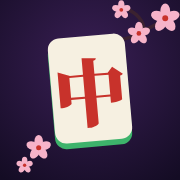
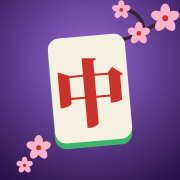
Mahj Night: amethyst ombre background, remove umbrella (v1.3)
Claude-Session: https://claude.ai/code/session_018HnCYLGY6uvHi36cN7WMrt

diff --git a/mahj-night/index.html b/mahj-night/index.html
@@ -4,7 +4,7 @@
 <meta charset="utf-8">
 <meta name="viewport" content="width=device-width,initial-scale=1,viewport-fit=cover">
 <title>Mahj Night</title>
-<meta name="theme-color" content="#1B1230">
+<meta name="theme-color" content="#8656C4">
 <meta name="apple-mobile-web-app-capable" content="yes">
 <meta name="apple-mobile-web-app-title" content="Mahj Night">
 <meta name="apple-mobile-web-app-status-bar-style" content="black-translucent">
@@ -23,11 +23,11 @@
 <style>
 :root{
   --felt:#0F3D33; --felt-2:#145040; --felt-deep:#0A2C25; --rail:#06201A;
-  --night:#1F1335; --night-2:#35204F; --night-deep:#120B20; --blossom:#F6B3C9; --lacquer:#C8322B;
+  --night:#4A2478; --night-2:#8656C4; --night-deep:#1C0B30; --blossom:#F6B3C9; --lacquer:#C8322B;
   --zh:"Ma Shan Zheng","Noto Serif CJK SC","Songti SC","STKaiti",serif;
   --ivory:#F6F0E1; --bone:#E4D9BF; --ink:#22201B;
   --crak:#E0453A; --dot:#2F7BD6; --bam:#3DB36B; --gold:#F2B630; --plum:#A66CE8; --teal:#1FB5B0;
-  --text:#F4ECF4; --muted:#C7B3D6;
+  --text:#F4ECF4; --muted:#E0CFF0;
   --display:"Lilita One","Arial Rounded MT Bold","Trebuchet MS",system-ui,sans-serif;
   --body:"Nunito",ui-rounded,system-ui,-apple-system,"Segoe UI",sans-serif;
 }
@@ -35,7 +35,7 @@
 html,body{margin:0}
 html{background:var(--night-deep)}
 body{
-  background:radial-gradient(120% 70% at 50% -10%,var(--night-2),var(--night) 45%,var(--night-deep));
+  background:linear-gradient(180deg,var(--night-2) 0%,var(--night) 38%,var(--night-deep) 100%);
   color:var(--text); font:500 16px/1.45 var(--body);
   min-height:100vh; padding-bottom:calc(84px + env(safe-area-inset-bottom));
   -webkit-tap-highlight-color:transparent;
@@ -67,7 +67,7 @@ header{padding:calc(14px + env(safe-area-inset-top)) 0 6px}
 .b-update{background:var(--gold);color:var(--ink)} .b-update button{background:var(--ink);color:var(--gold)}
 .b-activity{background:var(--dot);color:#fff} .b-activity button{background:#fff;color:var(--dot)}
 .b-activity .x{background:transparent;color:#fff;padding:6px}
-.b-local{background:#2E2338;color:var(--gold);border:1px solid rgba(242,182,48,.4)}
+.b-local{background:#3A1E5C;color:var(--gold);border:1px solid rgba(242,182,48,.4)}
 
 /* section heads */
 .head{display:flex;align-items:flex-end;justify-content:space-between;gap:10px;margin:20px 0 10px}
@@ -85,7 +85,7 @@ header{padding:calc(14px + env(safe-area-inset-top)) 0 6px}
 
 /* the table card */
 .tables{display:grid;gap:18px}
-.tcard{background:rgba(18,11,32,.72);border-radius:26px;padding:14px;box-shadow:inset 0 0 0 1.5px rgba(255,255,255,.07)}
+.tcard{background:rgba(28,11,48,.55);border-radius:26px;padding:14px;box-shadow:inset 0 0 0 1.5px rgba(255,255,255,.07)}
 .felt{position:relative;aspect-ratio:1/0.82;margin:4px 6px 10px;border-radius:30px;
   background:radial-gradient(circle at 50% 45%,#1C7A5F,#12573F 70%);
   box-shadow:inset 0 0 0 9px var(--rail),inset 0 0 0 11px #2A6B57,0 10px 24px rgba(0,0,0,.35)}
@@ -120,7 +120,7 @@ header{padding:calc(14px + env(safe-area-inset-top)) 0 6px}
 
 /* games log */
 .glist{display:grid;gap:10px}
-.game{background:rgba(18,11,32,.72);border-radius:16px;padding:12px 14px;box-shadow:inset 0 0 0 1.5px rgba(255,255,255,.07)}
+.game{background:rgba(28,11,48,.55);border-radius:16px;padding:12px 14px;box-shadow:inset 0 0 0 1.5px rgba(255,255,255,.07)}
 .game .l1{display:flex;gap:8px;align-items:baseline}
 .game .l1 b{font-size:17px;font-weight:900;flex:1}
 .game .l1 small{color:var(--muted);font-weight:700;font-size:13px;white-space:nowrap}
@@ -141,14 +141,14 @@ header{padding:calc(14px + env(safe-area-inset-top)) 0 6px}
 .ptile button{border:0;background:transparent;color:#8f8670;font-weight:900;padding:0 6px;font-size:18px;line-height:1}
 .ptile.out{opacity:.5;box-shadow:0 4px 0 #8f8670}
 .ptile.out button{font-size:13px;color:var(--ink)}
-.card{background:rgba(18,11,32,.72);border-radius:20px;padding:16px;margin-top:16px;box-shadow:inset 0 0 0 1.5px rgba(255,255,255,.07)}
+.card{background:rgba(28,11,48,.55);border-radius:20px;padding:16px;margin-top:16px;box-shadow:inset 0 0 0 1.5px rgba(255,255,255,.07)}
 .card h3{font:400 22px/1 var(--display);margin:0 0 10px}
 .card p{margin:0 0 12px;color:var(--muted);font-weight:700;font-size:14px}
 .empty{text-align:center;padding:30px 10px;color:var(--muted);font-weight:700}
 .empty .big{font:400 26px/1.1 var(--display);color:var(--text);margin-bottom:8px}
 
 /* tab bar */
-nav.tabs{position:fixed;left:0;right:0;bottom:0;z-index:20;background:rgba(18,11,32,.94);backdrop-filter:blur(10px);-webkit-backdrop-filter:blur(10px);
+nav.tabs{position:fixed;left:0;right:0;bottom:0;z-index:20;background:rgba(28,11,48,.94);backdrop-filter:blur(10px);-webkit-backdrop-filter:blur(10px);
   padding:8px 10px calc(8px + env(safe-area-inset-bottom));display:flex;justify-content:center;gap:6px;border-top:1px solid rgba(255,255,255,.08)}
 nav.tabs button{flex:1;max-width:130px;border:0;background:transparent;border-radius:14px;padding:7px 4px;font-weight:800;font-size:13px;color:var(--muted);display:grid;justify-items:center;gap:3px}
 nav.tabs button .ic{width:26px;height:20px;border-radius:5px;background:rgba(255,255,255,.1);display:grid;place-items:center}
@@ -163,7 +163,7 @@ nav.tabs button[data-tab=players][aria-selected=true] .ic i{background:var(--bam
 /* sheets */
 dialog{border:0;padding:0;background:transparent;color:var(--text);max-width:560px;width:100%;margin:auto auto 0;max-height:92vh}
 dialog::backdrop{background:rgba(0,0,0,.55)}
-.sheet{background:#1A1029;border-radius:24px 24px 0 0;padding:18px 16px calc(20px + env(safe-area-inset-bottom));box-shadow:0 -1px 0 rgba(255,255,255,.1)}
+.sheet{background:#26103F;border-radius:24px 24px 0 0;padding:18px 16px calc(20px + env(safe-area-inset-bottom));box-shadow:0 -1px 0 rgba(255,255,255,.1)}
 .sheet h3{font:400 26px/1 var(--display);margin:0 0 4px}
 .sheet .lead{color:var(--muted);font-weight:700;font-size:14px;margin:0 0 14px}
 .q{font-weight:900;margin:14px 0 8px;font-size:15px}
@@ -205,7 +205,6 @@ dialog::backdrop{background:rgba(0,0,0,.55)}
 .wrap{position:relative;z-index:1}
 .scene{position:fixed;inset:0;z-index:0;pointer-events:none;overflow:hidden}
 .scene .branch{position:absolute;right:-40px;top:-30px;width:240px;opacity:.6}
-.scene .parasol{position:absolute;left:-60px;bottom:70px;width:250px;opacity:.3;transform:rotate(-18deg)}
 .scene .chars{position:absolute;right:10px;top:42%;writing-mode:vertical-rl;font:400 92px/1 var(--zh);color:rgba(246,179,201,.07);letter-spacing:10px}
 .petal{position:absolute;top:-30px;width:12px;height:10px;background:var(--blossom);border-radius:12px 0 12px 0;opacity:.8;animation:fall linear infinite}
 @keyframes fall{0%{transform:translate(0,-5vh) rotate(0)}50%{transform:translate(-40px,50vh) rotate(200deg)}100%{transform:translate(20px,110vh) rotate(400deg)}}
@@ -224,14 +223,6 @@ footer{text-align:center;color:var(--muted);font-size:13px;font-weight:700;paddi
       <g id="bud"><ellipse rx="5" ry="7" fill="#FFD9E4"/></g></defs>
     <path d="M330 10 C280 40 240 70 205 95 C170 120 130 150 60 222 M240 70 C255 95 262 115 262 120 M205 95 C190 80 170 78 160 80 M150 140 C140 140 130 150 120 160" stroke="#4A2A3A" stroke-width="5" fill="none" stroke-linecap="round"/>
     <use href="#bl" transform="translate(285 25) scale(1.4)"/> <use href="#bl" transform="translate(250 58) scale(1.1)"/> <use href="#bud" transform="translate(232 40) scale(1)"/> <use href="#bl" transform="translate(205 95) scale(1.3)"/> <use href="#bl" transform="translate(172 118) scale(0.9)"/> <use href="#bud" transform="translate(150 140) scale(1)"/> <use href="#bl" transform="translate(120 160) scale(1.2)"/> <use href="#bl" transform="translate(95 195) scale(0.8)"/> <use href="#bud" transform="translate(80 175) scale(0.9)"/> <use href="#bl" transform="translate(262 120) scale(1)"/> <use href="#bl" transform="translate(240 150) scale(0.8)"/> <use href="#bud" transform="translate(280 95) scale(1)"/> <use href="#bl" transform="translate(160 80) scale(0.9)"/> <use href="#bl" transform="translate(60 222) scale(1)"/>
-  </svg>
-  <svg class="parasol" viewBox="0 0 240 240">
-    <path d="M120 120 L120 235" stroke="#6E4A2A" stroke-width="5" stroke-linecap="round"/>
-    <path d="M10 120 A110 110 0 0 1 230 120 Z" fill="#C8322B"/>
-    <g fill="#A52520"><path d="M120 120 L10 120 A110 110 0 0 1 24 66 Z"/><path d="M120 120 L45 39 A110 110 0 0 1 98 12 Z"/><path d="M120 120 L142 12 A110 110 0 0 1 195 39 Z"/><path d="M120 120 L216 66 A110 110 0 0 1 230 120 Z"/></g>
-    <g stroke="#F2B630" stroke-width="2" opacity=".8"><path d="M120 120 L10 120"/><path d="M120 120 L24 66"/><path d="M120 120 L45 39"/><path d="M120 120 L98 12"/><path d="M120 120 L142 12"/><path d="M120 120 L195 39"/><path d="M120 120 L216 66"/><path d="M120 120 L230 120"/></g>
-    <path d="M10 120 A110 110 0 0 1 230 120" fill="none" stroke="#F2B630" stroke-width="3"/>
-    <circle cx="120" cy="8" r="6" fill="#F2B630"/>
   </svg>
   <div class="chars">麻將</div>
   <span class="petal" style="left:8%;animation-duration:14s;animation-delay:-2s;transform:scale(1)"></span><span class="petal" style="left:22%;animation-duration:18s;animation-delay:-9s;transform:scale(0.8)"></span><span class="petal" style="left:37%;animation-duration:16s;animation-delay:-5s;transform:scale(1.1)"></span><span class="petal" style="left:52%;animation-duration:20s;animation-delay:-12s;transform:scale(0.7)"></span><span class="petal" style="left:66%;animation-duration:15s;animation-delay:-1s;transform:scale(1)"></span><span class="petal" style="left:78%;animation-duration:19s;animation-delay:-7s;transform:scale(0.9)"></span><span class="petal" style="left:90%;animation-duration:17s;animation-delay:-13s;transform:scale(1)"></span><span class="petal" style="left:45%;animation-duration:22s;animation-delay:-16s;transform:scale(0.8)"></span>
@@ -268,7 +259,7 @@ footer{text-align:center;color:var(--muted);font-size:13px;font-weight:700;paddi
 <script>
 (() => {
   // Bump VERSION here AND in version.json on every push.
-  const VERSION = "1.2";
+  const VERSION = "1.3";
 
   const $ = s => document.querySelector(s);
   const esc = s => String(s ?? "").replace(/[&<>"']/g, c => ({ "&":"&amp;","<":"&lt;",">":"&gt;",'"':"&quot;","'":"&#39;" }[c]));
